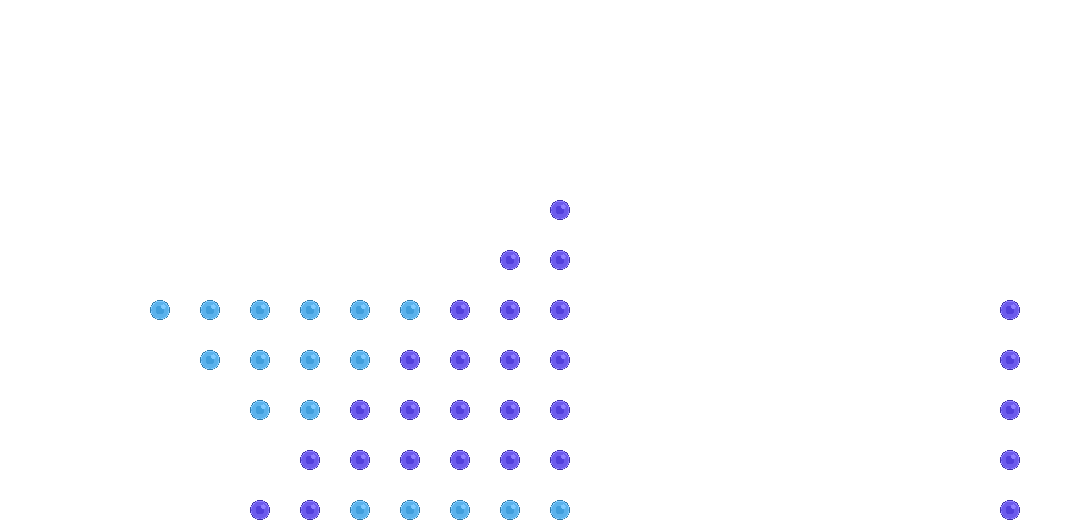
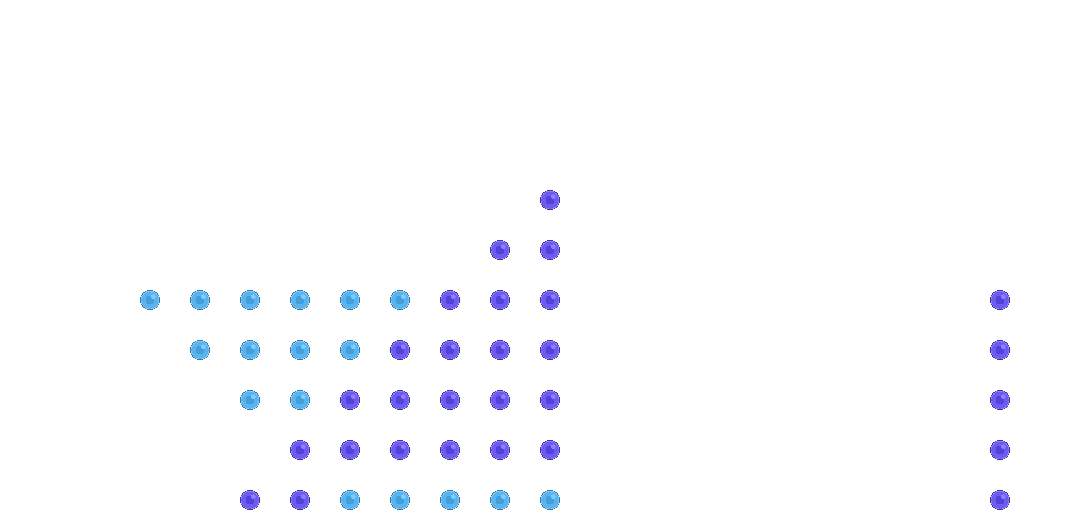
Correction

diff --git a/Modele/Niveau.java b/Modele/Niveau.java
@@ -90,7 +90,7 @@ public class Niveau {
     public void setScoreMax(int newMax) {
         if (newMax < ScoreMax)
             return;
-        setValueAtIndex(9, newMax);
+        setValueAtIndex(8, newMax);
         ScoreMax = newMax;
     }
 
@@ -178,8 +178,8 @@ public class Niveau {
         g2d.fill(new RoundRectangle2D.Float(0, 0, width, height, 60, 60));
 
         for (Pegs peg : nv.getPegs()) {
-            g2d.drawImage(ImageImport.getImage(peg.getImageString()), (int) peg.getX(), (int) peg.getY(), peg.getDiametre(),
-                    peg.getDiametre(), null);
+            g2d.drawImage(ImageImport.getImage(peg.getImageString()), (int) peg.getX() - peg.getRadius(), (int) peg.getY() - peg.getRadius(), 
+                peg.getDiametre(), peg.getDiametre(), null);
         }
 
         try {
